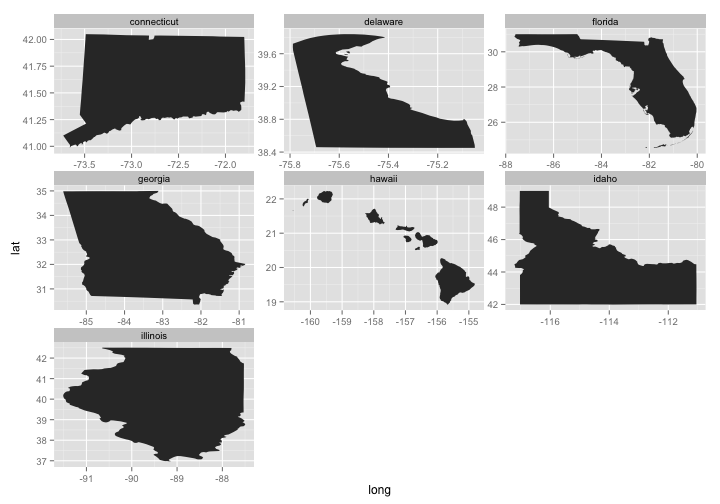
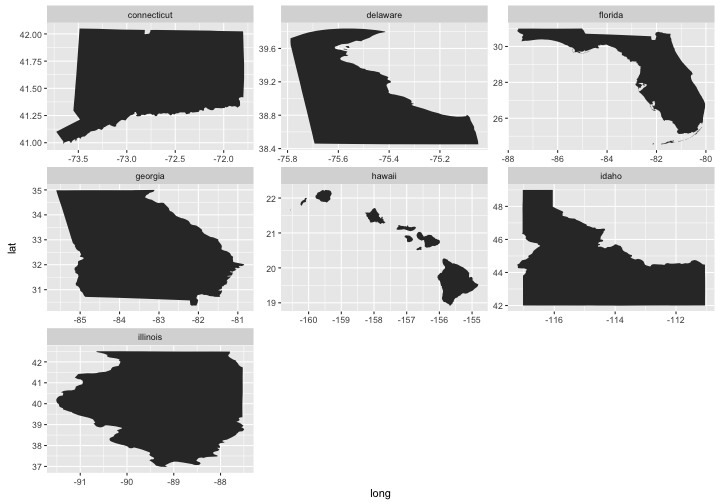
readme fixes

diff --git a/README.md b/README.md
@@ -16,6 +16,7 @@ Functions in this package are organized first around what you're working with or
 
 * `geojson_list()` - convert to geojson as R list format
 * `geojson_json()` - convert to geojson as json
+* `geojson_sp()` - convert output of `geojson_list()` or `geojson_json()` to spatial objects
 * `geojson_read()`/`topojson_read()` - read a geojson/topojson file from file path or URL
 * `geojson_write()` - write a geojson file locally (topojson coming later)
 
@@ -278,15 +279,14 @@ Make a faceted plot
 library('ggplot2')
 library('plyr')
 st_use <- st_files[7:13]
-geo <- lapply(st_use, geojson_read, method = "local", what = "sp", verbose = FALSE)
-#> Error in rgdal::readOGR(input, rgdal::ogrListLayers(input), verbose = FALSE, : formal argument "verbose" matched by multiple actual arguments
+geo <- lapply(st_use, geojson_read, method = "local", what = "sp")
 df <- ldply(setNames(lapply(geo, fortify), gsub("\\.geojson", "", st_names[7:13])))
-#> Error in lapply(geo, fortify): object 'geo' not found
 ggplot(df, aes(long, lat, group = group)) +
   geom_polygon() +
   facet_wrap(~.id, scales = "free")
-#> Error: ggplot2 doesn't know how to deal with data of class function
 ```
+
+![plot of chunk unnamed-chunk-20](inst/img/unnamed-chunk-20-1.png)
 
 Okay, so the maps are not quite right (stretched to fit each panel), but you get the idea.
 
